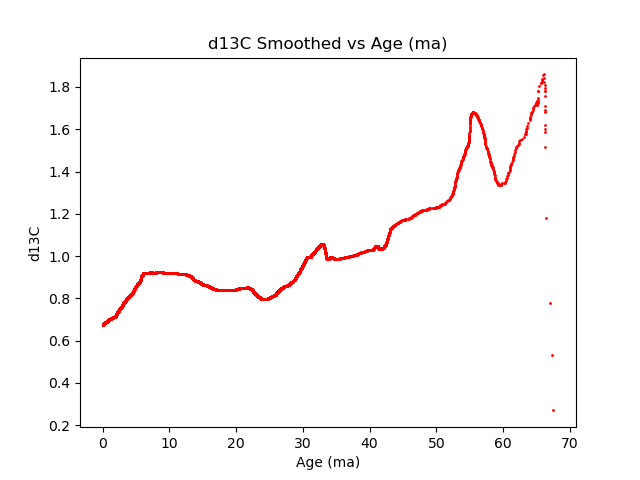
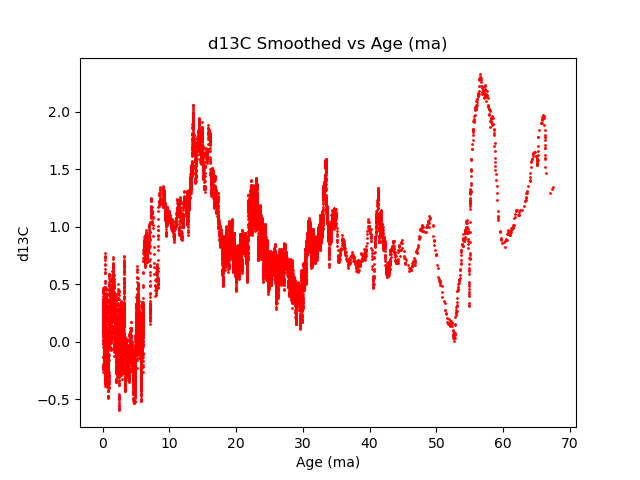
fix smooth solution and add constant to starter main function

diff --git a/starter-code/graphingTool.cpp b/starter-code/graphingTool.cpp
@@ -38,27 +38,31 @@ void scatterPlot(
 
 
 int main() {
+    const size_t NUM_COLUMNS = 3;
+    const size_t WINDOW_SIZE = 15;
+    const int MIN_AGE = 53;
+    const int MAX_AGE = 57;
    
-    // /* Deliverable 1 */
-    // vector<vector<double>> data = parseData("./2008CompilationData.csv", NUM_COLUMNS);
+    /* Deliverable 1 */
+    vector<vector<double>> data = parseData("./2008CompilationData.csv", NUM_COLUMNS);
     
-    // /* Deliverable 2 */
-    // scatterPlot(data[0], data[1], "Age (ma)", "d18O", "d18O vs Age (ma)", "blue");
-    // scatterPlot(data[0], data[2], "Age (ma)", "d13C", "d13C vs Age (ma)", "red");
+    /* Deliverable 2 */
+    scatterPlot(data[0], data[1], "Age (ma)", "d18O", "d18O vs Age (ma)", "blue");
+    scatterPlot(data[0], data[2], "Age (ma)", "d13C", "d13C vs Age (ma)", "red");
 
-    // /* Deliverable 3 */
-    // vector<vector<double>> smoothedData = smoothData(data, WINDOW_SIZE);
+    /* Deliverable 3 */
+    vector<vector<double>> smoothedData = smoothData(data, WINDOW_SIZE);
 
-    // /* Deliverable 4 */
-    // scatterPlot(smoothedData[0], smoothedData[1], "Age (ma)", "d18O", "d18O Smoothed vs Age (ma)", "blue");
-    // scatterPlot(smoothedData[0], smoothedData[2], "Age (ma)", "d13C", "d13C Smoothed vs Age (ma)", "red");
+    /* Deliverable 4 */
+    scatterPlot(smoothedData[0], smoothedData[1], "Age (ma)", "d18O", "d18O Smoothed vs Age (ma)", "blue");
+    scatterPlot(smoothedData[0], smoothedData[2], "Age (ma)", "d13C", "d13C Smoothed vs Age (ma)", "red");
 
-    // /* Deliverable 5 */
-    // vector<vector<double>> filteredData = filterData(data, MIN_AGE, MAX_AGE);
+    /* Deliverable 5 */
+    vector<vector<double>> filteredData = filterData(data, MIN_AGE, MAX_AGE);
 
-    // /* Deliverable 6 */
-    // scatterPlot(filteredData[0], filteredData[1], "Age (ma)", "d18O", "d18O Filtered vs Age (ma)", "blue");
-    // scatterPlot(filteredData[0], filteredData[2], "Age (ma)", "d13C", "d13C Filtered vs Age (ma)", "red");
+    /* Deliverable 6 */
+    scatterPlot(filteredData[0], filteredData[1], "Age (ma)", "d18O", "d18O Filtered vs Age (ma)", "blue");
+    scatterPlot(filteredData[0], filteredData[2], "Age (ma)", "d13C", "d13C Filtered vs Age (ma)", "red");
    return 0;   
 }
 

diff --git a/solution/dataManipulationFuncs.cpp b/solution/dataManipulationFuncs.cpp
@@ -162,7 +162,7 @@ vector<vector<double>> filterData(vector<vector<double>>& rawData, int minAge, i
  */
 double getAvgNextNValues(vector<double> const& v, size_t startIndex , size_t windowLength){ 
     double sum = 0; 
-    int stopIndex = max(v.size(), startIndex + windowLength); 
+    int stopIndex = min(v.size(), startIndex + windowLength); 
     for(int i = startIndex; i < stopIndex; i++){ 
         sum += v[i];
     }

diff --git a/solution/graphingTool.cpp b/solution/graphingTool.cpp
@@ -44,7 +44,7 @@ void scatterPlot(
 */
 int main() {
     const size_t NUM_COLUMNS = 3;
-    const size_t WINDOW_SIZE = 5;
+    const size_t WINDOW_SIZE = 15;
     const int MIN_AGE = 53;
     const int MAX_AGE = 57;
 
